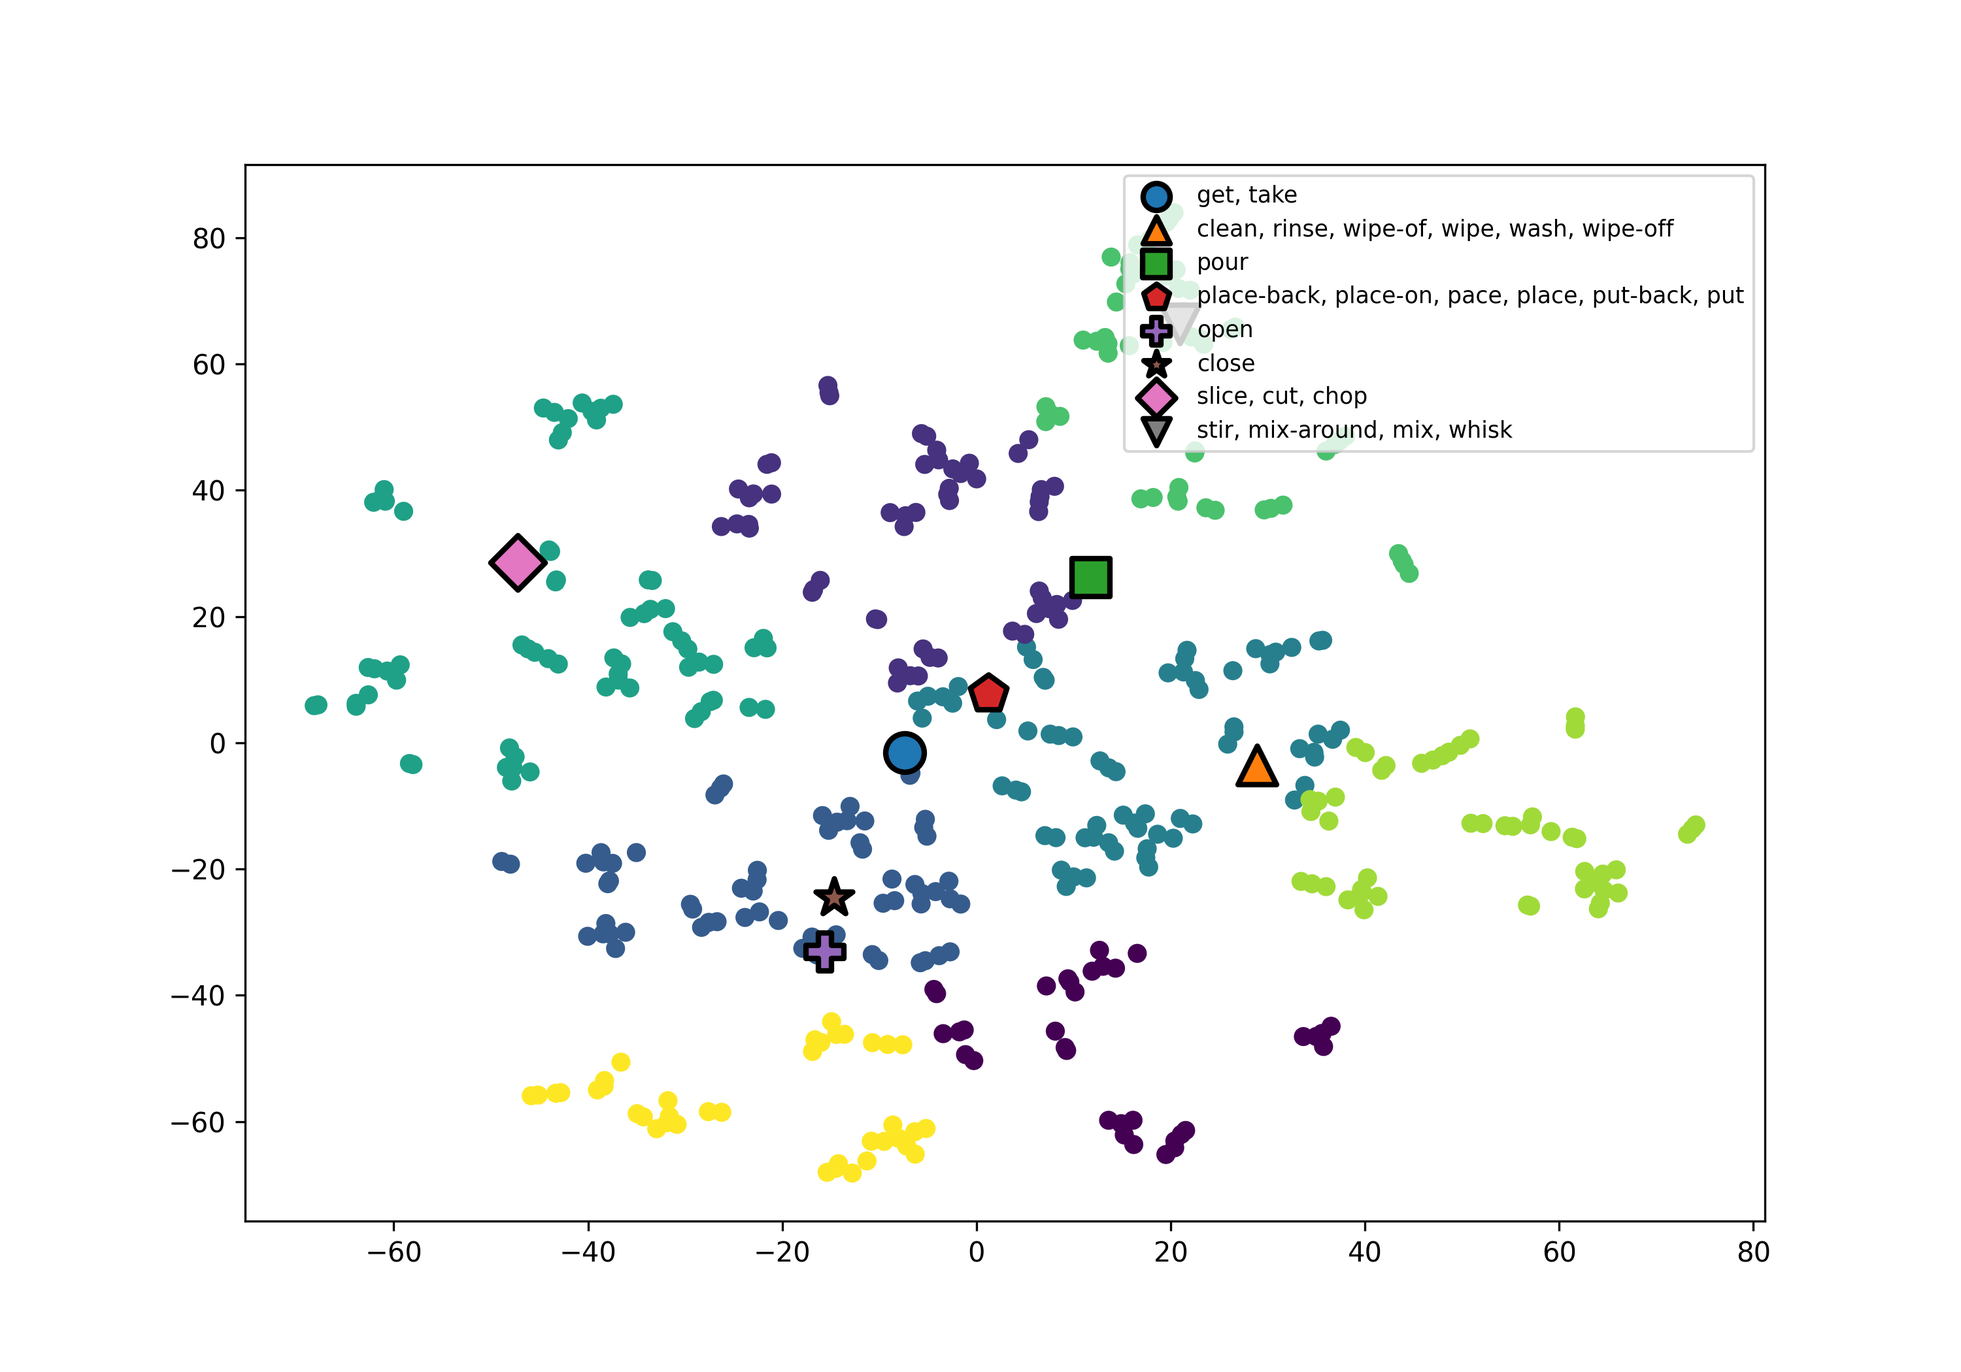
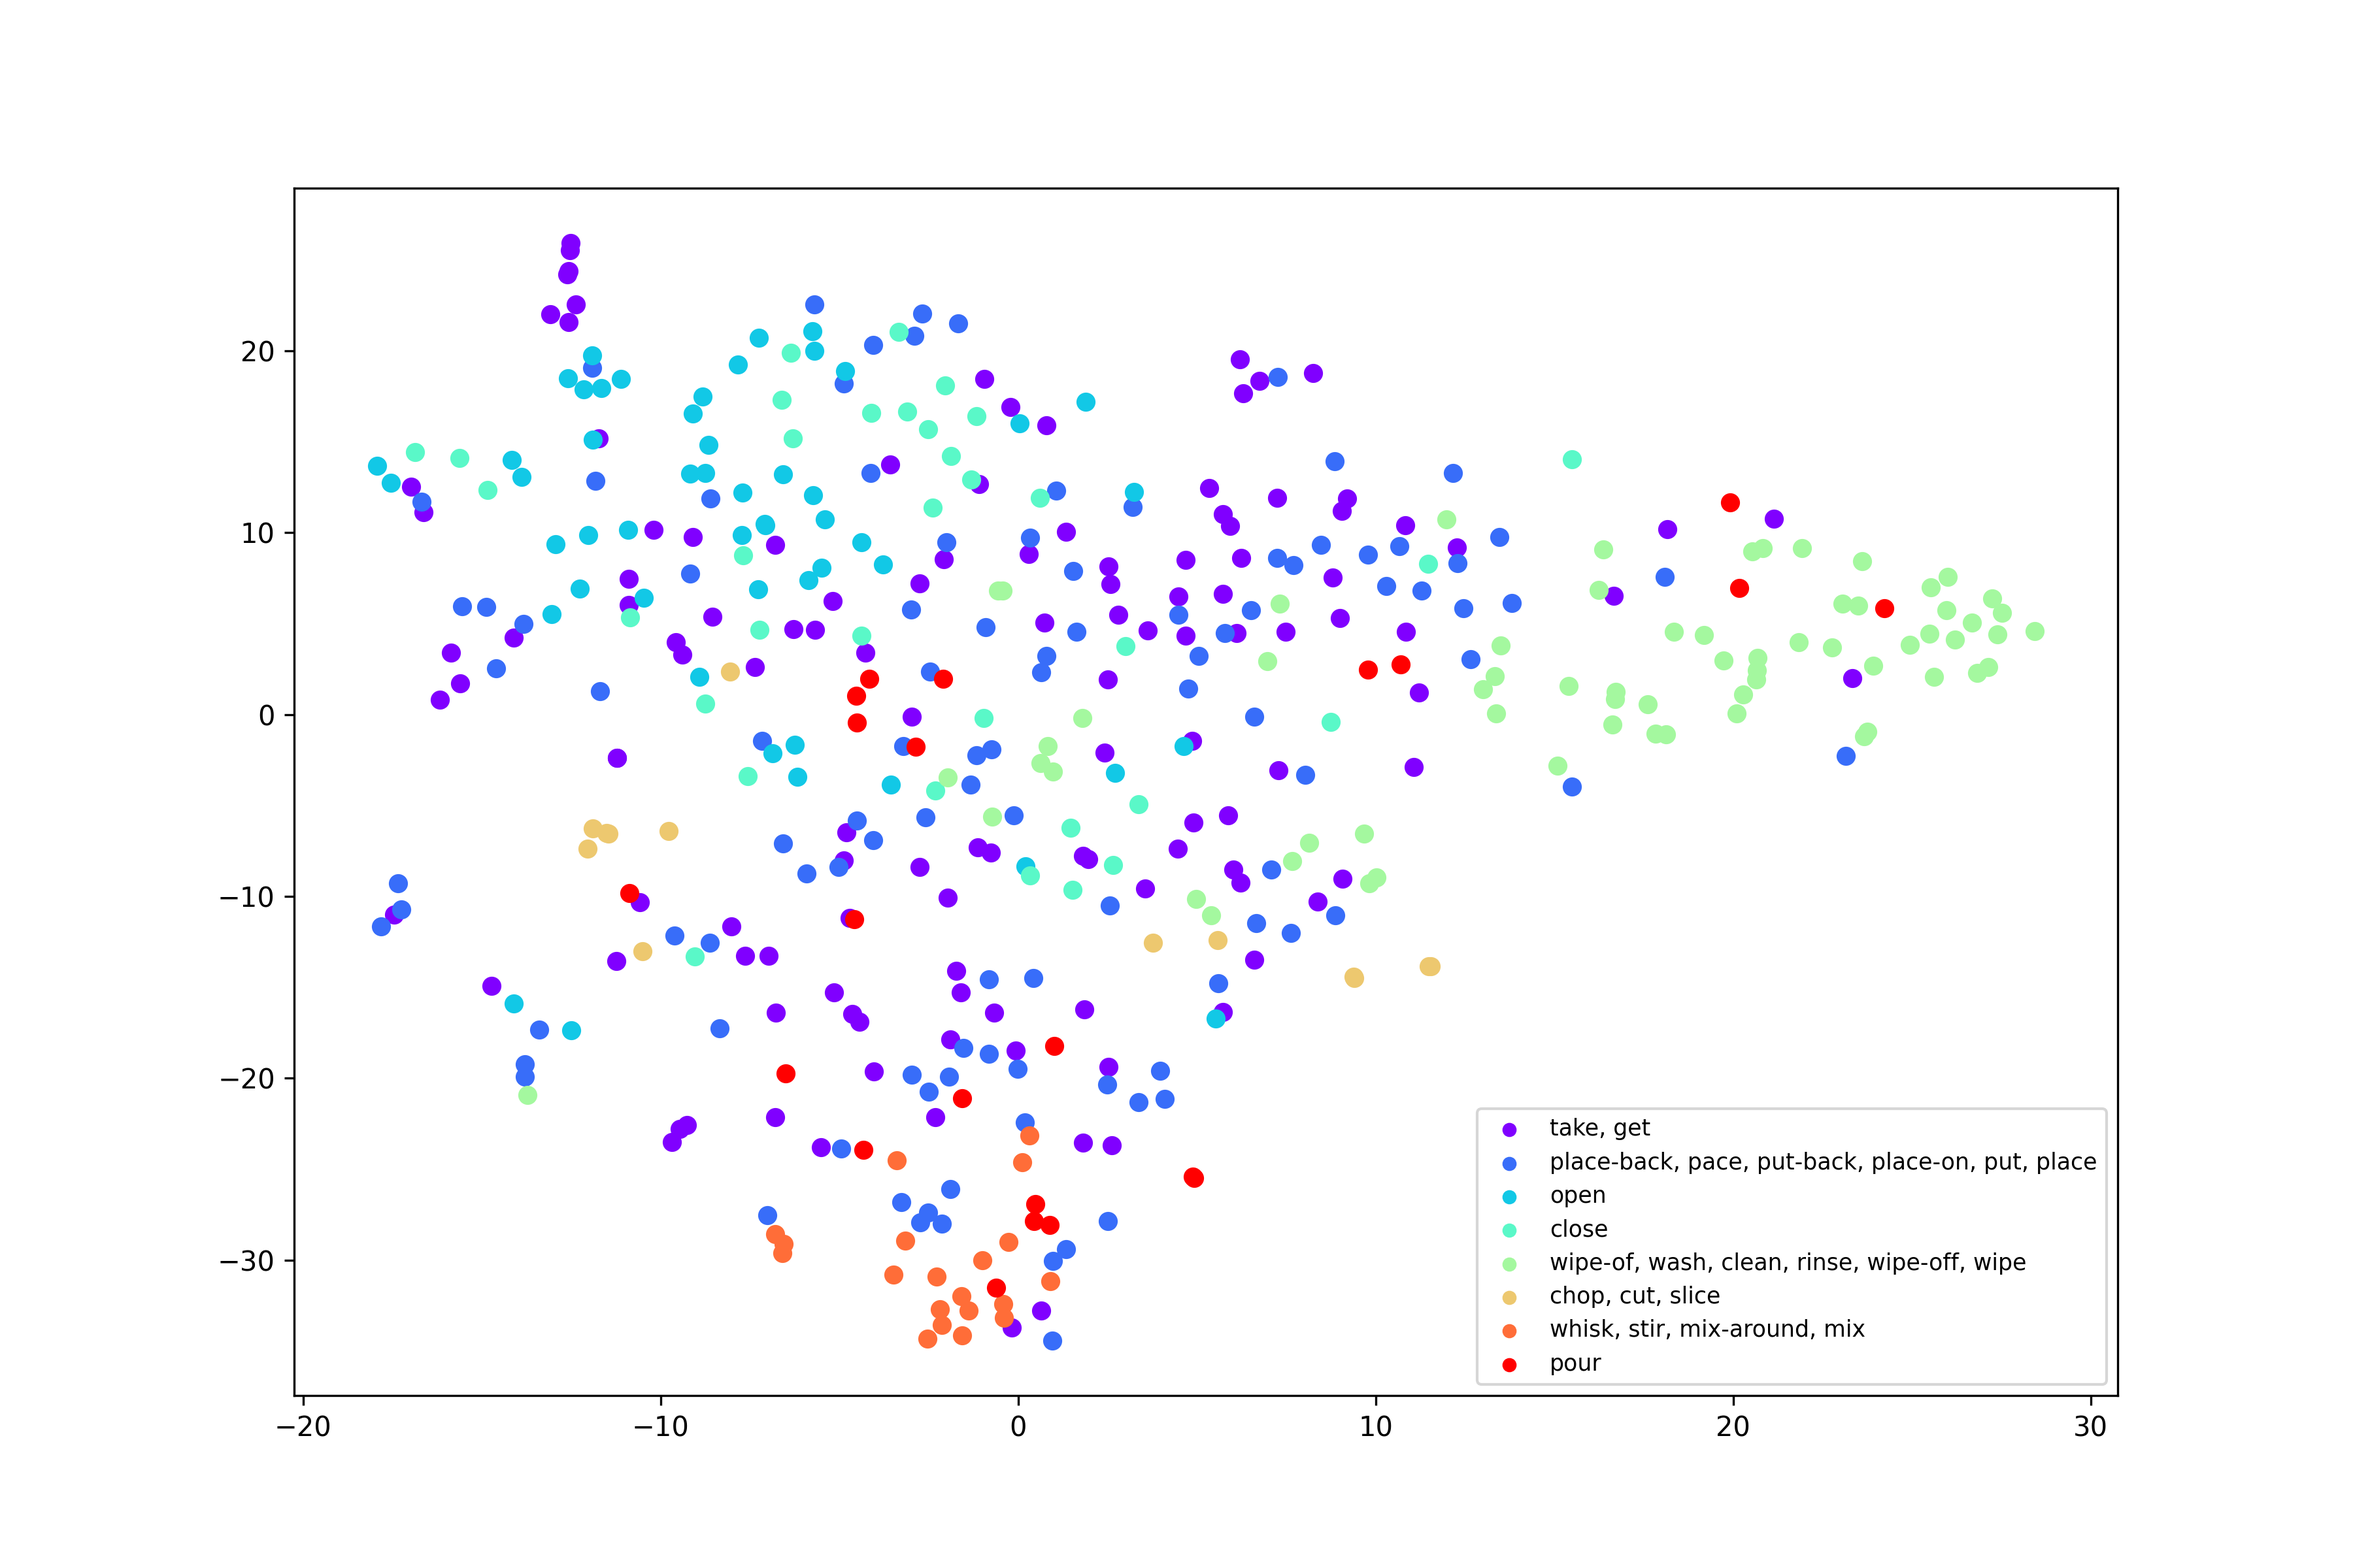
adding TSNE and some TODO on pt3

diff --git a/plot_features.py b/plot_features.py
@@ -230,9 +230,9 @@ def plot_features_TSNE(args):
     actions = []
 
     # use PCA or LDA before using t-sne
-    pca = PCA(50)
-    lda = LinearDiscriminantAnalysis(n_components=50)
-    tsne = TSNE(n_components=2, learning_rate='auto', init='random', perplexity=3)
+    PCA_COMPONENTS = 50
+    pca = PCA(PCA_COMPONENTS)
+    tsne = TSNE(n_components=2, learning_rate='auto', init='random', perplexity=30)
 
     with open(features_path, 'rb') as f_file:
         data = pk.load(f_file)
@@ -256,50 +256,58 @@ def plot_features_TSNE(args):
 
     extracted_samples = pca.fit_transform(extracted_samples)
     extracted_samples = np.array(extracted_samples)
-    extracted_samples = extracted_samples.reshape(extracted_samples.shape[0], 50)
+    extracted_samples = extracted_samples.reshape(extracted_samples.shape[0], PCA_COMPONENTS)
 
     # apply t-sne
     extracted_samples = tsne.fit_transform(extracted_samples)
     extracted_samples = np.array(extracted_samples)
     extracted_samples = extracted_samples.reshape(extracted_samples.shape[0], 2)
 
-    km = KMeans(n_clusters=8, random_state=62)
-    km.fit(extracted_samples)
-    predictions = km.predict(extracted_samples)
-    plt.scatter(extracted_samples[:, 0], extracted_samples[:, 1], c=predictions)
+    # km = KMeans(n_clusters=8, random_state=62)
+    # km.fit(extracted_samples)
+    # predictions = km.predict(extracted_samples)
+    # plt.scatter(extracted_samples[:, 0], extracted_samples[:, 1], c=predictions)
 
-    # Making a list of [(coordinates), action]
-    coord_action = []
-    for i, coord in enumerate(extracted_samples):
-        coord_action.append((actions[i], coord))
+    color = iter(plt.cm.rainbow(np.linspace(0, 1, NUM_CLASSES)))
 
-    # Group by the first element of each tuple
-    grouped_data = defaultdict(list)
-    for action, coordinates in coord_action:
-        grouped_data[action].append(coordinates)
+    for label in range(NUM_CLASSES):
+        cl = next(color)
+        class_samples = np.array([extracted_samples[j] for j in range(len(extracted_samples)) if labels[j] == label])
+        plt.scatter(class_samples[:, 0], class_samples[:, 1], c=cl, label=label_actions[label])
 
-    average_coord_per_action = defaultdict()
-    for action, coordinates in grouped_data.items():
-        # Extract x-coordinates and y-coordinates into separate lists
-        x_coordinates = [x for x, y in coordinates]
-        y_coordinates = [y for x, y in coordinates]
-        # Calculate the mean of x-coordinates and y-coordinates
-        x_mean = sum(x_coordinates) / len(coordinates)
-        y_mean = sum(y_coordinates) / len(coordinates)
-        average_coord_per_action[action] = (x_mean, y_mean)
+    # # Making a list of [(coordinates), action]
+    # coord_action = []
+    # for i, coord in enumerate(extracted_samples):
+    #     coord_action.append((actions[i], coord))
 
-    # Define a list of markers
-    markers = ['o', '^', 's', 'p', 'P', '*', 'D', 'v']
-    marker_iter = iter(markers)
+    # # Group by the first element of each tuple
+    # grouped_data = defaultdict(list)
+    # for action, coordinates in coord_action:
+    #     grouped_data[action].append(coordinates)
 
-    # Plot each point with a different marker
-    for action, coordinate in average_coord_per_action.items():
-        x, y = coordinate
-        marker = next(marker_iter)
-        plt.scatter(x, y, marker=marker, s=200, edgecolor='black', linewidths=2, label=action)
-        plt.legend(fontsize='small', markerscale=0.7, loc="upper right")
+    # average_coord_per_action = defaultdict()
+    # for action, coordinates in grouped_data.items():
+    #     # Extract x-coordinates and y-coordinates into separate lists
+    #     x_coordinates = [x for x, y in coordinates]
+    #     y_coordinates = [y for x, y in coordinates]
+    #     # Calculate the mean of x-coordinates and y-coordinates
+    #     x_mean = sum(x_coordinates) / len(coordinates)
+    #     y_mean = sum(y_coordinates) / len(coordinates)
+    #     average_coord_per_action[action] = (x_mean, y_mean)
 
-    plt.gcf().set_size_inches(10, 7)
+    # # Define a list of markers
+    # markers = ['o', '^', 's', 'p', 'P', '*', 'D', 'v']
+    # marker_iter = iter(markers)
+
+    # # Plot each point with a different marker
+    # for action, coordinate in average_coord_per_action.items():
+    #     x, y = coordinate
+    #     marker = next(marker_iter)
+    #     plt.scatter(x, y, marker=marker, s=200, edgecolor='black', linewidths=2, label=action)
+    #     plt.legend(fontsize='small', markerscale=0.7, loc="upper right")
+
+    plt.legend(fontsize='small', markerscale=0.7, loc="lower right")
+    plt.gcf().set_size_inches(12, 8)
     plt.savefig(output_image_path, dpi=300)
     plt.show()
 
@@ -313,4 +321,4 @@ if __name__ == '__main__':
     # plot_features_PCA_LDA(cli_args)
     plot_features_TSNE(cli_args)
 
-    # TODO: try isomap, t-sne (scikitlearn)
+    # TODO: try isomap, density-based clustering vs actual labels, use some different clustering algorithms from k-means (DBSCAN)

diff --git a/emg_extract.py b/emg_extract.py
@@ -19,14 +19,19 @@ def emg_adjust_features(file_path: str, *, cut_frequency: float = 5.0, filter_or
                 # Low-pass filter 5 Hz
                 fs = times.size / (times[-1]-times[0])
 
+                # TODO: why is fs not 160? sometimes is more sometimes is less
+                # TODO: maybe onw just filter with fs=160 is enough
+
                 nyq = 0.5 * fs
                 wn = cut_frequency / nyq
-                
+
                 b, a = butter(filter_order, wn, 'low', analog=False)
                 filtered = filtfilt(b, a, row.T, padlen=1).T
-                
+
                 data.at[i, side + '_readings'] = filtered
-                
+
+    # TODO: how to do normalization ? is L2 norm ok ? is the normalization per each action or on the whole dataset / we can also use batch norm layer
+    # TODO: use the statistics calculated on training to the testing phase
     # Normalization with L2 norm
     for side in to_read:
         flat_side_data = [it for sub in data.loc[1:, side + '_readings'].apply(lambda x: x) for rd in sub for it in rd]
@@ -51,6 +56,7 @@ def emg_adjust_features(file_path: str, *, cut_frequency: float = 5.0, filter_or
                 # Normalize and shift in [-1, 1]
                 normalized = (row - mn) * 2 / (mx-mn) - 1
                 
+                # TODO: avoid summation because input of lstm is 100x16 instead of 100x1 (slack confirmed 5th february)
                 # Forearm activation
                 activation = normalized.sum(1)
                 

diff --git a/models/LSTM.py b/models/LSTM.py
@@ -6,18 +6,15 @@ class LSTM(nn.Module):
     def __init__(self, num_classes, input_size=1024, hidden_size=512):
         super().__init__()
 
-        self.lstm = nn.LSTM(input_size, hidden_size, 1, batch_first=True, dropout=0.4)
+        self.lstm = nn.LSTM(input_size, hidden_size, 1, batch_first=True)
+        self.dropout = nn.Dropout(p=0.3)
         self.fc1 = nn.Linear(hidden_size, num_classes)
 
     def forward(self, x):
         x = x.reshape((x.shape[0], 5, 1024))
 
-        # initialize the hidden state.
-        h0 = torch.zeros(1, x.shape[0], 512).to(x.device)
-        c0 = torch.zeros(1, x.shape[0], 512).to(x.device)
-        state = (h0, c0)
-
-        out, state = self.lstm(x, state)
-        out = self.fc1(out[:, -1, :])
+        out, _ = self.lstm(x)
+        out = self.dropout(out[:, -1, :])
+        out = self.fc1(out)
         
         return out, {}

diff --git a/models/FinalClassifierEMG.py b/models/FinalClassifierEMG.py
@@ -1,0 +1,23 @@
+from torch import nn
+import torch
+
+class FinalClassifierEMG(nn.Module):
+    def __init__(self, input_size=16, hidden_size1=5, hidden_size2=50, dropout=0.2, num_classes=20):
+        super().__init__()
+        self.hidden_size1 = hidden_size1
+        self.hidden_size2 = hidden_size2
+
+        self.lstm1 = nn.LSTM(input_size, hidden_size1, batch_first=True)
+        self.lstm2 = nn.LSTM(hidden_size1, hidden_size2, batch_first=True)
+        self.dropout = nn.Dropout(p=dropout)
+        self.dense = nn.Linear(hidden_size2, num_classes)
+
+        # TODO: change architecture of the network
+
+    def forward(self, x):
+        out, _ = self.lstm1(x)
+        out, _ = self.lstm2(out)
+        out = self.dropout(out[:, -1, :])
+        out = self.dense(out)
+        
+        return out

diff --git a/models/FinalClassifierRGB.py b/models/FinalClassifierRGB.py
@@ -1,0 +1,23 @@
+from torch import nn
+import torch
+
+class FinalClassifierRGB(nn.Module):
+    def __init__(self, input_size=16, hidden_size1=5, hidden_size2=50, dropout=0.2, num_classes=20):
+        super().__init__()
+        self.hidden_size1 = hidden_size1
+        self.hidden_size2 = hidden_size2
+
+        self.lstm1 = nn.LSTM(input_size, hidden_size1, batch_first=True)
+        self.lstm2 = nn.LSTM(hidden_size1, hidden_size2, batch_first=True)
+        self.dropout = nn.Dropout(p=dropout)
+        self.dense = nn.Linear(hidden_size2, num_classes)
+
+        # TODO: change architecture of the network
+
+    def forward(self, x):
+        out, _ = self.lstm1(x)
+        out, _ = self.lstm2(out)
+        out = self.dropout(out[:, -1, :])
+        out = self.dense(out)
+        
+        return out

diff --git a/utils/loaders.py b/utils/loaders.py
@@ -56,7 +56,20 @@ emg_descriptions_to_labels = [
     'Unload dishwasher: 3 each large/small plates, bowls, mugs, glasses, sets of utensils',
 ]
 
-class EmgDataset(data.Dataset, ABC):
+# class ActionNetRgbDataset(data.Dataset, ABC):
+#     def __init__(self, data_path, index_file_split) -> None:
+#         # TODO: to implement
+#         return
+    
+#     def __getitem__(self, index):
+#         # TODO: to implement
+#         return 
+
+#     def __len__(self):
+#         return len(self.data)
+
+
+class ActionNetEmgDataset(data.Dataset, ABC):
     def __init__(self, data_path, index_file_split) -> None:
         file_name = f'./action-net/ActionNet_{index_file_split}.pkl'
         self.indices = pd.DataFrame(pd.read_pickle(file_name))

diff --git a/models/__init__.py b/models/__init__.py
@@ -3,3 +3,5 @@ from models.I3D import I3D
 from models.MLP import MLP
 from models.LSTM import LSTM 
 from models.RNN import RNN 
+from models.FinalClassifierRGB import FinalClassifierRGB
+from models.FinalClassifierEMG import FinalClassifierEMG
